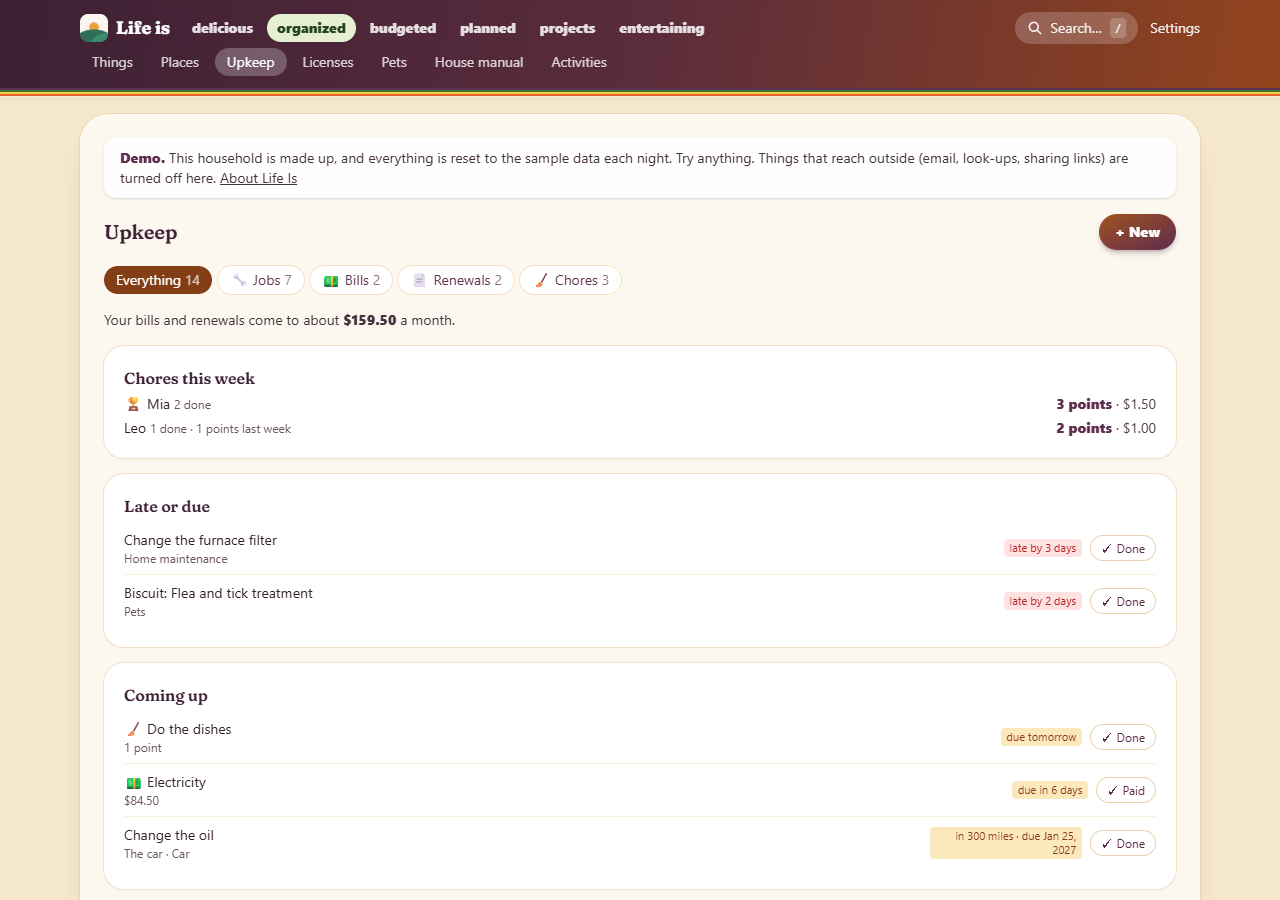
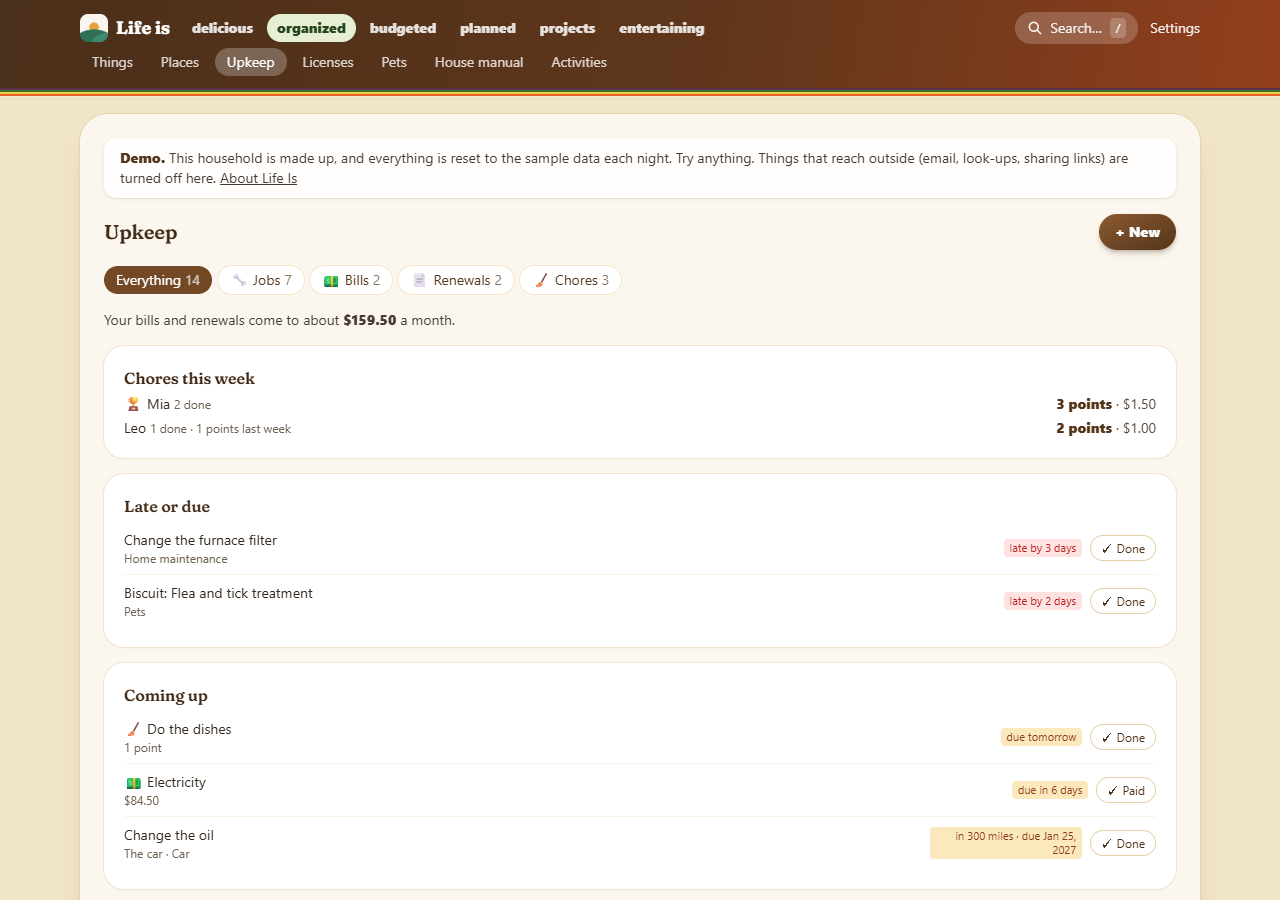
The redesign's base is chocolate, rust and cream, with the owner's plum, green, gold and orange as accents

diff --git a/frontend/tailwind.config.js b/frontend/tailwind.config.js
@@ -5,38 +5,39 @@ export default {
   darkMode: 'class',
   theme: {
     extend: {
-      // THE COLOURS LIVE HERE (and in docs/build-site.mjs for the website). They are sampled from the owner's own artwork:
-      // cream paper, orange caps, rust, toffee, harvest gold, greens and a plum-brown. Lightness is nudged where words must
-      // pass WCAG AA; hues stay. Check with: node e2e/redesign-shots.mjs (it audits every word on the main pages).
+      // THE COLOURS LIVE HERE (and in docs/build-site.mjs for the website). The base is chocolate browns on cream; the accents
+      // (plum, green, gold, orange) come from the owner's own artwork and are used sparingly. They may be re-tuned to match it.
+      // Lightness is chosen so words pass WCAG AA: check with node e2e/redesign-shots.mjs (it audits every word on the main pages).
       colors: {
-        // "life" runs from cream paper (50) through peach and pumpkin to rust (500, 600: white text on buttons), then plum
-        // (700) and deep plum-brown (800 headings, 900). In dark mode 900, 800 and 700 are the night backgrounds and
-        // 50 to 400 are the cream and peach words.
+        // "life" runs from cream paper (50) down to chocolate (900). 600 carries white text on buttons, 800 is the heading
+        // brown, 50 and 100 are the soft backgrounds. In dark mode 900, 800 and 700 are the chocolate backgrounds and
+        // 50 to 400 are the cream and toffee words.
         life: {
-          50: '#f9f0dd', 100: '#f2e3c6', 200: '#e8d0a8', 300: '#f0b887', 400: '#e58f55',
-          500: '#a15221', 600: '#833e16', 700: '#5e2e4d', 800: '#3d2034', 900: '#2c1625',
+          50: '#fbf4e4', 100: '#f3e6c9', 200: '#e4cfa4', 300: '#d2b184', 400: '#c29a68',
+          500: '#8c5a33', 600: '#734825', 700: '#533519', 800: '#422a17', 900: '#2e1c0d',
         },
-        // Harvest gold, pumpkin orange and a deep rust (700: white or cream text sits on it).
+        // Harvest gold, orange and a deep rust (700: white or cream text sits on it).
         honey: { 100: '#fbe9bd', 400: '#eead3e', 500: '#e7602b', 700: '#8c3a14' },
-        // The mushroom cap.
+        // The mushroom-cap orange.
         coral: '#e7602b',
-        cream: '#f5e8cd',
-        // The deep plum-brown of the night.
-        night: '#231120',
-        // The greens of the artwork. Used sparingly: the section you are in, success, a stripe.
+        cream: '#faf3e3',
+        // The page behind the sheet: light, and the dark chocolate night.
+        paper: '#f1e5c8',
+        night: '#2a190d',
+        // The artwork's accents: plum (a tint for dark mode), and green for the section you are in and for success.
+        plum: { 500: '#60304f', 300: '#b98aa8' },
         avocado: { 100: '#e6efd3', 400: '#498f54', 600: '#3a742f', 800: '#25461f' },
-        // Greys with a little plum in them, so the words sit well on cream and on the night.
+        // Greys with a little brown in them.
         gray: {
-          50: '#faf4e8', 100: '#f3ebdb', 200: '#e5d9c4', 300: '#cdbfae', 400: '#7a6670',
-          500: '#6b5560', 600: '#56434d', 700: '#44323c', 800: '#33222c', 900: '#231620',
+          50: '#faf6ef', 100: '#f3ede1', 200: '#e5dccb', 300: '#cfc3ac', 400: '#7a6c58',
+          500: '#6f6252', 600: '#5a4e40', 700: '#473d31', 800: '#33291f', 900: '#231b13',
         },
       },
       backgroundImage: {
-        // The header: plum-brown into rust, where white text reads well.
-        'life-bar': 'linear-gradient(100deg, #3d2034 0%, #5a2c3c 50%, #93441c 100%)',
-        // The artwork's stripes, in its order: plum, green, gold, orange, cream. Flat bands, hard edged.
+        // The header: chocolate into rust, where white text reads well.
+        'life-bar': 'linear-gradient(100deg, #4a2f1a 0%, #5f361b 55%, #933f1d 100%)',
+        // The artwork's stripe order, as plain flat bands: plum, green, gold, orange, cream. A placeholder for the owner's wave.
         'life-all': 'linear-gradient(180deg, #60304f 0 20%, #3a742f 20% 40%, #f2ce47 40% 60%, #e7602c 60% 80%, #f5e8cd 80% 100%)',
-        // The same bands on the diagonal.
         'life-sunrise': 'linear-gradient(135deg, #60304f 0 20%, #3a742f 20% 40%, #f2ce47 40% 60%, #e7602c 60% 80%, #f5e8cd 80% 100%)',
       },
       fontFamily: {

diff --git a/docs/site/docs/docs.css b/docs/site/docs/docs.css
@@ -1,12 +1,12 @@
 @font-face { font-family: "Fraunces Variable"; font-style: normal; font-display: swap; font-weight: 100 900; src: url(../fraunces-soft.woff2) format("woff2-variations"); }
-:root { --ink: #33222c; --soft: #56434d; --paper: #f5e8cd; --card: #fbf3e1; --line: #dcc59b; --deep: #3d2034; --teal: #833e16; --btn: #833e16; --btn-ink: #ffffff; }
-@media (prefers-color-scheme: dark) { :root { --ink: #f9f0dd; --soft: #f0b887; --paper: #231120; --card: #3d2034; --line: #55304a; --deep: #f2ce47; --teal: #eead3e; --btn: #eead3e; --btn-ink: #231120; } }
+:root { --ink: #33291f; --soft: #5a4e40; --paper: #f1e5c8; --card: #faf3e3; --line: #dfcb9f; --deep: #422a17; --teal: #734825; --btn: #734825; --btn-ink: #ffffff; }
+@media (prefers-color-scheme: dark) { :root { --ink: #fbf4e4; --soft: #d2b184; --paper: #2a190d; --card: #422a17; --line: #5a3a20; --deep: #f2ce47; --teal: #eead3e; --btn: #eead3e; --btn-ink: #2a190d; } }
 h1, h2, .brand { font-family: "Fraunces Variable", Georgia, Cambria, serif; font-variation-settings: "SOFT" 100; }
 .bands { height: .6rem; background: linear-gradient(180deg, #60304f 0 20%, #3a742f 20% 40%, #f2ce47 40% 60%, #e7602c 60% 80%, #f5e8cd 80% 100%); }
 * { box-sizing: border-box; }
 body { margin: 0; background: var(--paper); color: var(--ink); font: 17px/1.6 system-ui, -apple-system, "Segoe UI", sans-serif; }
 a { color: var(--teal); }
-.top { background: linear-gradient(100deg, #3d2034 0%, #5a2c3c 50%, #93441c 100%); color: #fff; padding: .7rem 1.1rem; display: flex; align-items: center; gap: 1rem; flex-wrap: wrap; }
+.top { background: linear-gradient(100deg, #4a2f1a 0%, #5f361b 55%, #933f1d 100%); color: #fff; padding: .7rem 1.1rem; display: flex; align-items: center; gap: 1rem; flex-wrap: wrap; }
 .top a { color: #fff; text-decoration: none; opacity: .92; } .top .brand { font-weight: 700; font-size: 1.1rem; margin-right: auto; display: flex; align-items: center; gap: .5rem; opacity: 1; }
 .top img { width: 1.8rem; height: 1.8rem; border-radius: .45rem; } .pill { background: rgba(255,255,255,.2); border-radius: 999px; padding: .25rem .9rem; font-weight: 600; }
 .layout { max-width: 64rem; margin: 0 auto; padding: 1.5rem 1.1rem 3rem; display: grid; gap: 2rem; grid-template-columns: 14rem minmax(0, 1fr); }
@@ -23,7 +23,7 @@ th, td { text-align: left; vertical-align: top; padding: .5rem .6rem; border-bot
 .cards { display: grid; gap: .8rem; grid-template-columns: repeat(auto-fill, minmax(15rem, 1fr)); margin-top: 1.2rem; }
 .cards a { background: var(--card); border: 1px solid var(--line); border-radius: 1.1rem; padding: .9rem 1rem; text-decoration: none; color: var(--ink); display: block; }
 .cards a:hover { border-color: var(--teal); } .cards b { display: block; color: var(--teal); } .cards span { font-size: .92rem; color: var(--soft); }
-.note { background: #fbe9bd; color: #3d2034; border-radius: .7rem; padding: .7rem .9rem; }
+.note { background: #fbe9bd; color: #422a17; border-radius: .7rem; padding: .7rem .9rem; }
 .builder { background: var(--card); border: 1px solid var(--line); border-radius: .9rem; padding: .4rem 1rem 1rem; }
 .builder fieldset { border: 0; padding: 0; margin: 1rem 0 0; } .builder legend { font-weight: 700; padding: 0; }
 .builder label { display: block; margin: .35rem 0; } .builder .field { font-size: .92rem; color: var(--soft); }

diff --git a/docs/site/index.html b/docs/site/index.html
@@ -9,15 +9,15 @@
 <link rel="icon" href="icon.png">
 <style>
   @font-face { font-family: "Fraunces Variable"; font-style: normal; font-display: swap; font-weight: 100 900; src: url(fraunces-soft.woff2) format("woff2-variations"); }
-  :root { --ink: #33222c; --soft: #56434d; --paper: #f5e8cd; --card: #fbf3e1; --line: #dcc59b; --deep: #3d2034; --teal: #833e16; --btn: #833e16; --btn-ink: #ffffff; --sand: #eead3e; --coral: #e7602b; }
-  @media (prefers-color-scheme: dark) { :root { --ink: #f9f0dd; --soft: #f0b887; --paper: #231120; --card: #3d2034; --line: #55304a; --deep: #f2ce47; --teal: #eead3e; --btn: #eead3e; --btn-ink: #231120; } }
+  :root { --ink: #33291f; --soft: #5a4e40; --paper: #f1e5c8; --card: #faf3e3; --line: #dfcb9f; --deep: #422a17; --teal: #734825; --btn: #734825; --btn-ink: #ffffff; --sand: #eead3e; --coral: #e7602b; }
+  @media (prefers-color-scheme: dark) { :root { --ink: #fbf4e4; --soft: #d2b184; --paper: #2a190d; --card: #422a17; --line: #5a3a20; --deep: #f2ce47; --teal: #eead3e; --btn: #eead3e; --btn-ink: #2a190d; } }
   h1, h2, .bar strong { font-family: "Fraunces Variable", Georgia, Cambria, serif; font-variation-settings: "SOFT" 100; }
   .bands { height: .6rem; background: linear-gradient(180deg, #60304f 0 20%, #3a742f 20% 40%, #f2ce47 40% 60%, #e7602c 60% 80%, #f5e8cd 80% 100%); }
   .hero .bands { position: absolute; left: 0; right: 0; bottom: 0; }
   * { box-sizing: border-box; }
   body { margin: 0; background: var(--paper); color: var(--ink); font: 17px/1.6 system-ui, -apple-system, "Segoe UI", sans-serif; }
   a { color: var(--teal); }
-  .hero { position: relative; background: linear-gradient(100deg, #3d2034 0%, #5a2c3c 50%, #93441c 100%); color: #fff; padding: 1rem 1.1rem 3.5rem; }
+  .hero { position: relative; background: linear-gradient(100deg, #4a2f1a 0%, #5f361b 55%, #933f1d 100%); color: #fff; padding: 1rem 1.1rem 3.5rem; }
   .bar, .wrap { max-width: 64rem; margin: 0 auto; }
   .bar { display: flex; align-items: center; gap: .75rem; flex-wrap: wrap; }
   .bar strong { font-size: 1.15rem; margin-right: auto; display: flex; align-items: center; gap: .5rem; }
@@ -27,7 +27,7 @@
   .pill { background: rgba(255,255,255,.2); padding: .3rem .9rem; }
   .hero h1 { font-size: clamp(1.9rem, 5vw, 3rem); line-height: 1.15; margin: 3rem 0 1rem; max-width: 22ch; }
   .hero p { font-size: 1.15rem; max-width: 46ch; margin: 0 0 1.6rem; opacity: .95; }
-  .button { background: #f9f0dd; color: #3d2034; padding: .7rem 1.4rem; margin: 0 .5rem .5rem 0; }
+  .button { background: #fbf4e4; color: #422a17; padding: .7rem 1.4rem; margin: 0 .5rem .5rem 0; }
   .button.quiet { background: rgba(255,255,255,.18); color: #fff; }
   .wrap { padding: 0 1.1rem; }
   .shot { margin: -2.2rem auto 0; display: block; width: 100%; height: auto; border-radius: 1rem; box-shadow: 0 12px 40px rgba(0,0,0,.25); border: 1px solid var(--line); }

diff --git a/frontend/src/pages/Settings.jsx b/frontend/src/pages/Settings.jsx
@@ -90,9 +90,9 @@ function Titled({ title, hint, children }) {
 }
 const THEME_KEY = 'lifeis.theme';
 const LOOKS = [
-  ['light', 'Light', 'Cream paper, plum-brown words.', 'bg-cream text-life-800 ring-life-200'],
-  ['dark', 'Dark', 'Deep plum night, cream words.', 'bg-night text-life-50 ring-life-700'],
-  ['system', 'Same as this device', 'Light by day, dark at night, whichever this device is using.', 'bg-gradient-to-r from-cream from-50% to-night to-50% text-life-600 ring-life-400'],
+  ['light', 'Light', 'Cream paper, chocolate words.', 'bg-paper text-life-800 ring-life-200'],
+  ['dark', 'Dark', 'Deep chocolate night, cream words.', 'bg-night text-life-50 ring-life-700'],
+  ['system', 'Same as this device', 'Light by day, dark at night, whichever this device is using.', 'bg-gradient-to-r from-paper from-50% to-night to-50% text-life-600 ring-life-400'],
 ];
 /** Light, dark, or whatever this device is set to. Kept in this browser (or this app), and applied at once by /theme.js. */
 function Look() {
@@ -105,7 +105,7 @@ function Look() {
     else document.documentElement.classList.toggle('dark', c === 'dark' || (c === 'system' && window.matchMedia('(prefers-color-scheme: dark)').matches));
   };
   return (
-    <Titled title="Look" hint="Cream paper by day, a deep plum night after dark. This is kept on this device only.">
+    <Titled title="Look" hint="Cream paper by day, a deep chocolate night after dark. This is kept on this device only.">
       <fieldset>
         <legend className="sr-only">Look</legend>
         <div className="grid gap-2 sm:grid-cols-3" data-look-choices>

diff --git a/frontend/src/index.css b/frontend/src/index.css
@@ -26,7 +26,7 @@ body { @apply text-gray-800 dark:text-life-50; }
    sheet of frosted glass over it (see App.jsx), and a thin band of gold, orange, rust and brown runs under the header. */
 body {
   min-height: 100vh;
-  background: theme('colors.cream');
+  background: theme('colors.paper');
 }
 :root { color-scheme: light; }
 .dark { color-scheme: dark; }
@@ -39,7 +39,7 @@ h1, h2, .font-display { font-family: theme('fontFamily.display'); font-variation
 /* Red words, and the grey hints, would be too dim on the dark sheet, so they are lightened there. A dark: class on the
    same element still wins over these. */
 :where(.dark) .text-red-600 { color: #f4a08a; }
-:where(.dark) .text-gray-400 { color: #e58f55; }
+:where(.dark) .text-gray-400 { color: #c29a68; }
 /* Ticks and dots take the gold in the dark, where the brown would vanish. */
 :where(.dark) .accent-life-600 { accent-color: #eead3e; }
 
@@ -51,3 +51,6 @@ h1, h2, .font-display { font-family: theme('fontFamily.display'); font-variation
   main > div { background: transparent !important; box-shadow: none !important; padding: 0 !important; backdrop-filter: none !important; --tw-ring-shadow: 0 0 #0000 !important; }
   .sticker-sheet, .report-sheet { padding: 0 !important; }
 }
+
+/* The one touch of the artwork's plum: the colour of selected words. */
+::selection { background: theme('colors.plum.500'); color: theme('colors.cream'); }

diff --git a/docs/site/privacy.html b/docs/site/privacy.html
@@ -7,8 +7,8 @@
 <title>Life Is privacy policy</title>
 <style>
   @font-face { font-family: "Fraunces Variable"; font-style: normal; font-display: swap; font-weight: 100 900; src: url(fraunces-soft.woff2) format("woff2-variations"); }
-  :root { --ink: #33222c; --soft: #56434d; --paper: #f5e8cd; --card: #fbf3e1; --line: #dcc59b; --deep: #3d2034; --teal: #833e16; --btn: #833e16; --btn-ink: #ffffff; --accent: #3d2034; }
-  @media (prefers-color-scheme: dark) { :root { --ink: #f9f0dd; --soft: #f0b887; --paper: #231120; --card: #3d2034; --line: #55304a; --deep: #f2ce47; --teal: #eead3e; --btn: #eead3e; --btn-ink: #231120; --accent: #f2ce47; } }
+  :root { --ink: #33291f; --soft: #5a4e40; --paper: #f1e5c8; --card: #faf3e3; --line: #dfcb9f; --deep: #422a17; --teal: #734825; --btn: #734825; --btn-ink: #ffffff; --accent: #422a17; }
+  @media (prefers-color-scheme: dark) { :root { --ink: #fbf4e4; --soft: #d2b184; --paper: #2a190d; --card: #422a17; --line: #5a3a20; --deep: #f2ce47; --teal: #eead3e; --btn: #eead3e; --btn-ink: #2a190d; --accent: #f2ce47; } }
   h1, h2 { font-family: "Fraunces Variable", Georgia, Cambria, serif; font-variation-settings: "SOFT" 100; }
   body { margin: 0; background: var(--paper); color: var(--ink); font: 17px/1.6 system-ui, -apple-system, "Segoe UI", sans-serif; }
   main { max-width: 42rem; margin: 0 auto; padding: 2rem 1.1rem 4rem; }

diff --git a/frontend/device.html b/frontend/device.html
@@ -3,7 +3,7 @@
   <head>
     <meta charset="UTF-8" />
     <meta name="viewport" content="width=device-width, initial-scale=1.0, viewport-fit=cover" />
-    <meta name="theme-color" content="#3d2034" />
+    <meta name="theme-color" content="#4a2f1a" />
     <meta name="referrer" content="no-referrer" />
     <link rel="manifest" href="/manifest.json" />
     <link rel="icon" type="image/png" href="/icon-192.png" />

diff --git a/frontend/index.html b/frontend/index.html
@@ -3,7 +3,7 @@
   <head>
     <meta charset="UTF-8" />
     <meta name="viewport" content="width=device-width, initial-scale=1.0, viewport-fit=cover" />
-    <meta name="theme-color" content="#3d2034" />
+    <meta name="theme-color" content="#4a2f1a" />
     <meta name="referrer" content="no-referrer" />
     <link rel="manifest" href="/manifest.json" />
     <link rel="icon" type="image/png" href="/icon-192.png" />
